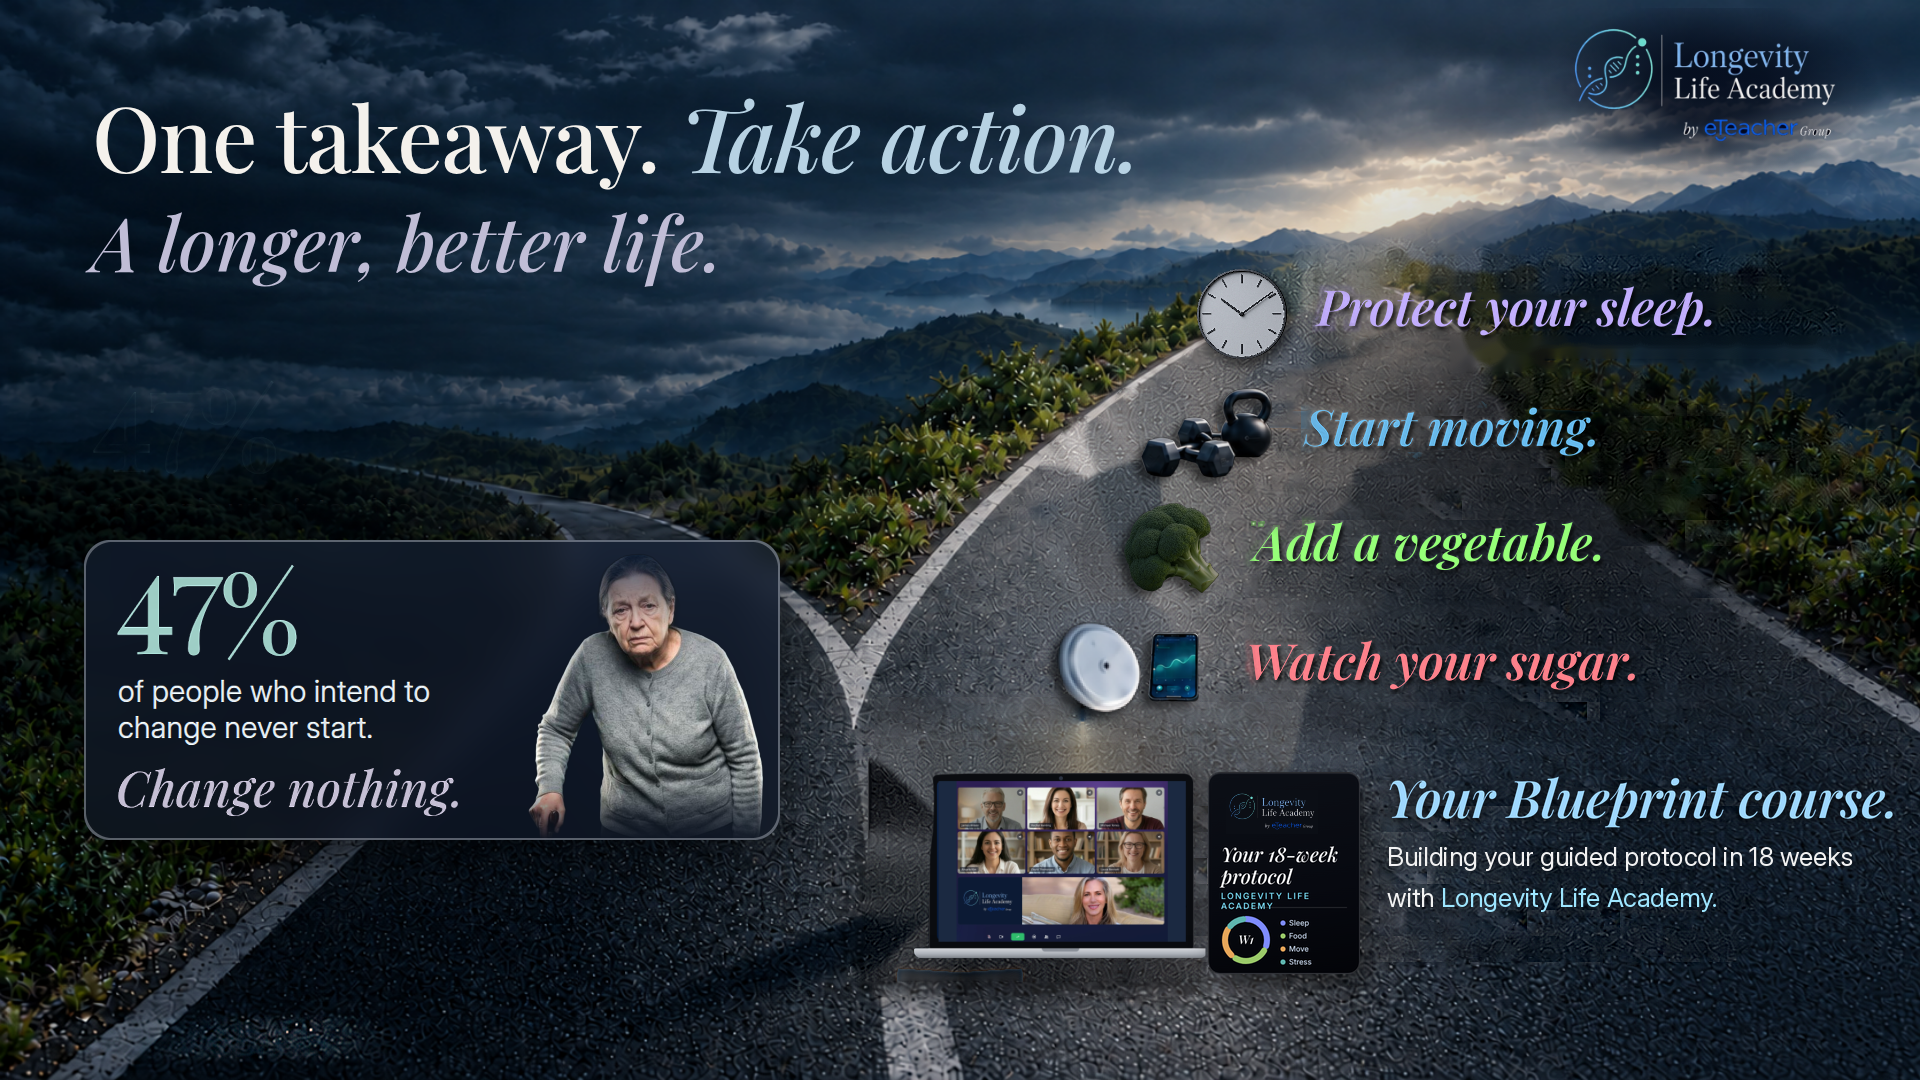
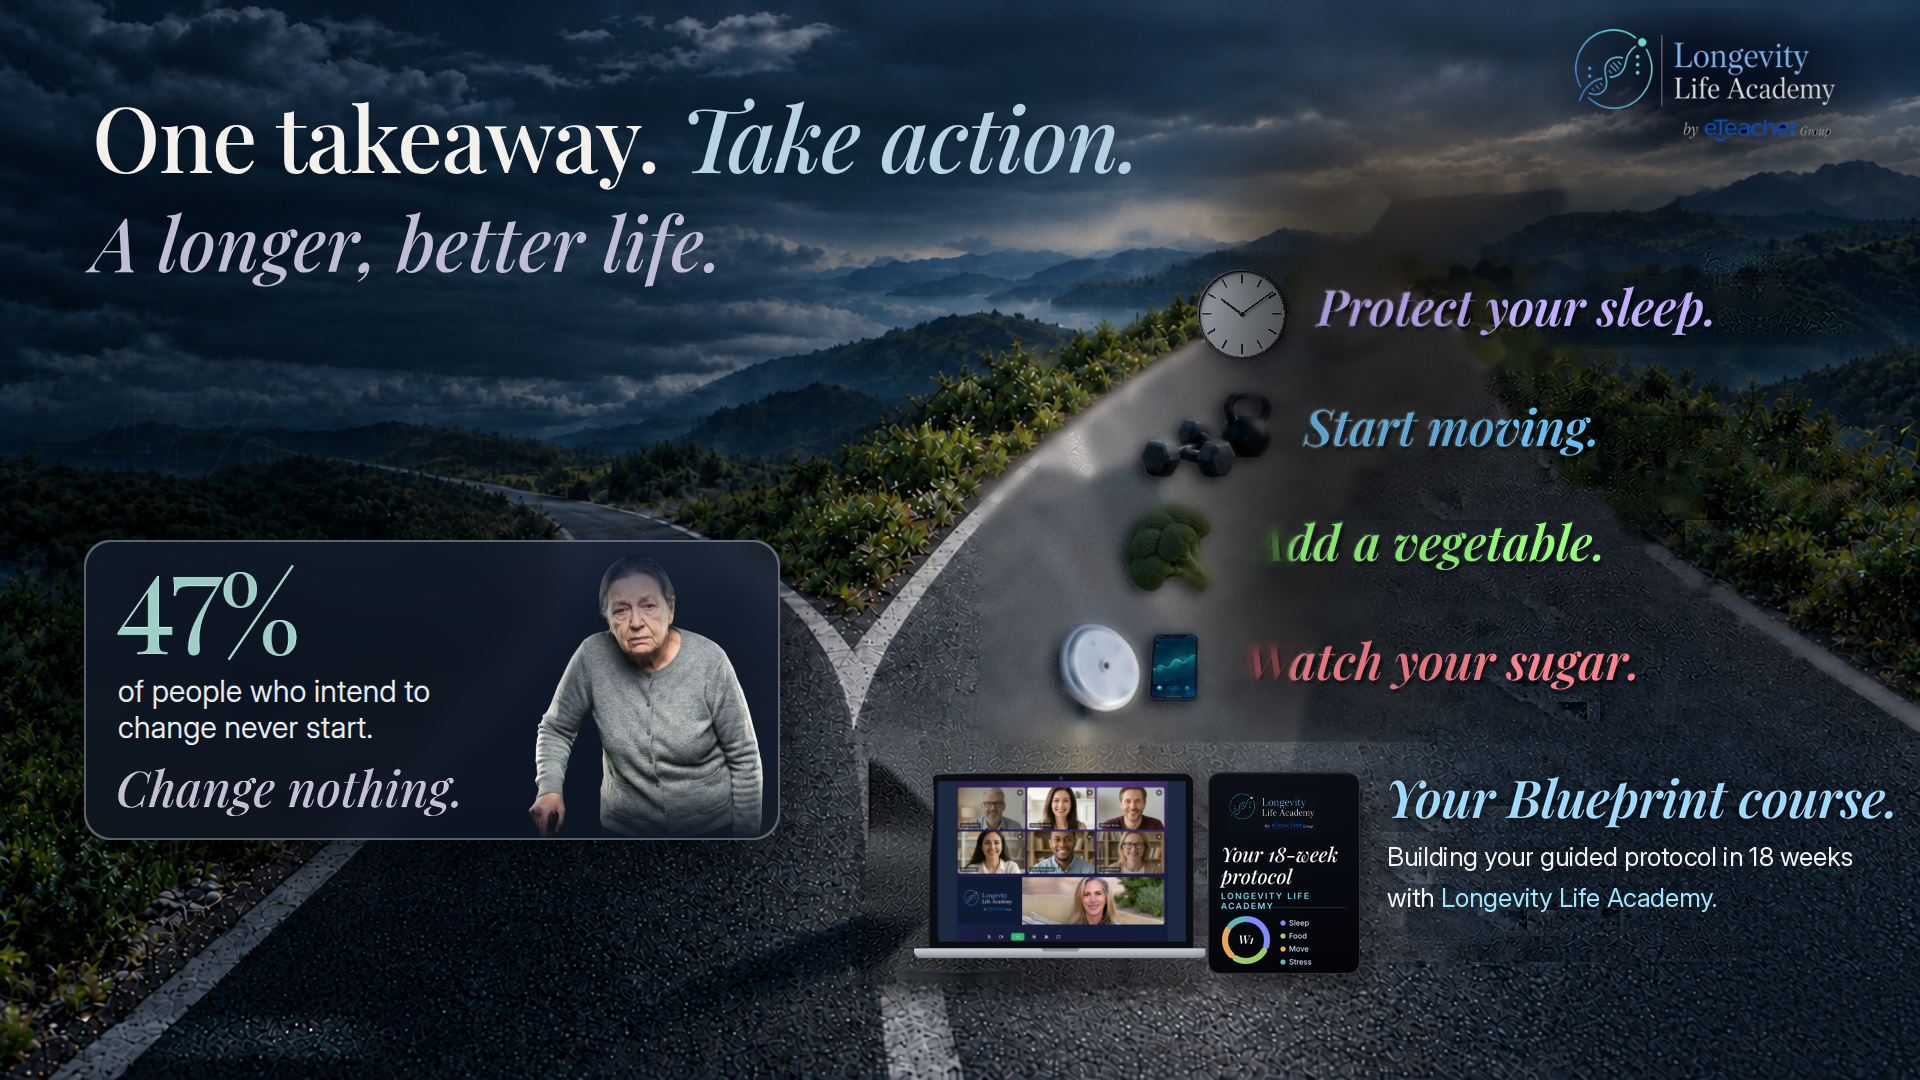
n25 fork: light ray removed (luminance-matched), patterned road smoothed around objects; z19/y32

diff --git a/slide-canvas/v46/corrections.js b/slide-canvas/v46/corrections.js
@@ -78,7 +78,7 @@ const sxRisks=newSlot('sx-risks','assets/n22-risks.jpg?v=v46y22','The four risks
 const sxBz=newSlot('sx-bz','assets/n23-bluezones.jpg?v=v46y22','The Blue Zones.','Added from the Round 13 page (slide 07, The Blue Zones). Placed before the menopause slide.','x2');
 const sxBr=newSlot('sx-brulee','assets/n24-brulee.jpg?v=v46y22','Crème brûlée and wrinkles.','Added from the Round 13 page (slide 13, Crème brûlée and wrinkles). Placed after the sugar slide, before Same age.','x3');
 const sxReligion=newSlot('sx-religion','assets/n26-religion.jpg?v=v46y22','Take the religion out of your diet.','New statement slide: only the sentence, large. Carries the religion part of the old plate-slide script; the pillars follow, then the plate.','x5');
-const sxFork=newSlot('sx-fork','assets/n25-fork.png?v=v46z18','One takeaway. Take action. (closing)','Closing slide: exactly the Julie deck slide 22 at commit f220cbd, unchanged (image file additional-take-action-20261026.png). It ends the deck.','x4');
+const sxFork=newSlot('sx-fork','assets/n25-fork.png?v=v46z19','One takeaway. Take action. (closing)','Closing slide: exactly the Julie deck slide 22 at commit f220cbd, unchanged (image file additional-take-action-20261026.png). It ends the deck.','x4');
 const sxSugar=newSlot('sx-sugar','assets/n28-sugar-limit.jpg?v=v46y22','Six teaspoons: the daily limit for added sugar.','New slide after the crème brûlée. Script it covers (quoted): “Here’s where the data points to a hard ceiling: keep your added sugar to under twenty-five grams a day. That’s roughly six teaspoons.” Then: “birthday cake is too precious of a tradition to scrap for watermelon cake. Sorry not gonna happen. But in it’s rightful place - once in a blue moon - it’s ok.” Then the CGM: “every student in the Longevity Life Academy will wear a CGM for two weeks.” Time 0:30, taken from the brûlée slide (now 0:30).','x6');
 const sxMwB=newSlot('sx-mw-julie','assets/n27-movement-week-julie.jpg?v=v46y22','Julie Gibson Clark’s Movement Week.','Movement week (option 2), Claude B, Protocol, slide 13. Marked V2. Julie to update. The full protocol follows after the stress slide.','x7');
 // The user's original slide references define the order, not inferred numbering.

diff --git a/slide-canvas/v46/index.html b/slide-canvas/v46/index.html
@@ -65,7 +65,7 @@ textarea:focus{outline:none;border-color:#006EFF;box-shadow:0 0 0 3px rgba(0,110
 <button id="send" class="btn p" onclick="sendAll()">Send my comments</button>
 <div id="lb" onclick="this.classList.remove('on')"><img id="lbimg" src="" alt=""><div class="x">Close</div></div>
 <div id="play"><img id="pimg" src="" alt=""><div class="x" onclick="stopPlay()">Close, Esc</div><div class="c" id="pc"></div></div>
-<script src="corrections.js?v=20261027-v46y31"></script>
+<script src="corrections.js?v=20261027-v46y32"></script>
 <script>
 const P=allSlots.map(s=>s.querySelector('img.main').getAttribute('src'));let k=0;
 const T=[...document.querySelectorAll('textarea')];

diff --git a/slide-canvas/fork-lab/index.html b/slide-canvas/fork-lab/index.html
@@ -1,4 +1,4 @@
 <!doctype html><html><head><meta charset="utf-8"><title>Fork lab – slide 26</title>
 <style>body{margin:0;background:#0b1220;color:#dfe7f3;font:15px/1.4 Inter,system-ui,sans-serif}h2{font-weight:500;margin:28px 24px 10px}img{display:block;width:calc(100% - 48px);max-width:1920px;margin:0 24px 24px;border-radius:6px}</style></head>
 <body><h2>Original</h2><img src="original-n25-fork.png?v=1" alt="Original">
-<h2>New</h2><img src="new-n25-fork.png?v=20" alt="New"></body></html>
+<h2>New</h2><img src="new-n25-fork.png?v=21" alt="New"></body></html>

diff --git a/slide-canvas/fork-lab/src/b12.py b/slide-canvas/fork-lab/src/b12.py
@@ -1,0 +1,25 @@
+import cv2,numpy as np
+from PIL import Image
+N=cv2.imread('new.png').astype(np.float32);O=cv2.imread('o.png').astype(np.float32);H,W=N.shape[:2]
+X0,Y0,X1,Y1=1180,180,1700,345
+k=lambda n:cv2.getStructuringElement(cv2.MORPH_ELLIPSE,(n,n))
+# orig objects mask
+m=np.zeros((H,W),np.uint8)
+ca=np.array(Image.open('c_clock.png'))[...,3];h,w=ca.shape;m[255:255+h,1250:1250+w]=np.maximum(m[255:255+h,1250:1250+w],(ca>20)*255)
+so=O.max(2)-O.min(2);t=((so>50)&(O.max(2)>120))|(O.min(2)>170);t[:, :1370]=False;t[:Y0]=0;t[Y1+20:]=0
+m=np.maximum(m,t.astype(np.uint8)*255);m=cv2.dilate(m,k(9))
+B=cv2.inpaint(np.clip(O,0,255).astype(np.uint8),m,4,cv2.INPAINT_NS).astype(np.float32)
+yy,xx=np.mgrid[0:H,0:W].astype(np.float32)
+g=np.exp(-(((xx-1560)/330)**2+((yy-470)/260)**2));g[:,:1260]*=np.clip((xx[:,:1260]-1180)/80,0,1);g[740:]=0
+g=cv2.GaussianBlur(g,(0,0),20);B=B*(1-0.42*g)[...,None]
+# keep new: headline + shadow, clock
+sn=N.max(2)-N.min(2);hl=((sn>60)&(N.max(2)>140));hl[:, :1300]=0
+K=cv2.dilate(hl.astype(np.uint8),k(17)).astype(np.float32)
+K=np.maximum(K,(np.hypot(xx-1246,yy-319)<54).astype(np.float32))
+K=cv2.GaussianBlur(K,(0,0),2.5)
+E=np.zeros((H,W),np.float32);E[Y0:Y1,X0:X1]=1;E=cv2.GaussianBlur(E,(0,0),6)*(1-K)
+R=N*(1-E[...,None])+B*E[...,None]
+o=np.clip(R,0,255).astype(np.uint8);cv2.imwrite('new.png',o)
+for n,(x,y) in {'clock':(1150,200),'dumb':(1000,330),'broc':(1000,470),'cgm':(980,590)}.items():
+  cv2.imwrite(f'zoom_{n}.png',cv2.resize(o[y:y+170,x:x+420],None,fx=2.4,fy=2.4,interpolation=cv2.INTER_NEAREST))
+cv2.imwrite('zoom_row1.png',o[170:360,1150:1900])

diff --git a/slide-canvas/fork-lab/src/b14.py b/slide-canvas/fork-lab/src/b14.py
@@ -1,0 +1,19 @@
+import cv2,numpy as np
+N=cv2.imread('new.png').astype(np.float32);H,W=N.shape[:2]
+k=lambda n:cv2.getStructuringElement(cv2.MORPH_ELLIPSE,(n,n))
+yy,xx=np.mgrid[0:H,0:W].astype(np.float32)
+Y=N.mean(2);sn=N.max(2)-N.min(2)
+obj=((sn>60)&(N.max(2)>140)).astype(np.uint8);obj[:,:1290]=0
+obj=np.maximum(obj,(np.hypot(xx-1242,yy-313)<50).astype(np.uint8))
+obj[340:742,1000:1300]=np.maximum(obj[340:742,1000:1300],((Y[340:742,1000:1300]<45)|(Y[340:742,1000:1300]>160)).astype(np.uint8))
+obj=cv2.dilate(obj,k(15))
+Yc=cv2.inpaint(np.clip(Y,0,255).astype(np.uint8),obj*255,9,cv2.INPAINT_TELEA).astype(np.float32)
+L=cv2.GaussianBlur(Yc,(0,0),35)
+T=np.percentile(Yc[600:740,1650:1900],50);print('T',T)
+Tm=np.minimum(L,T*1.05+ 0*L)
+reg=np.zeros((H,W),np.float32);reg[130:742,1220:1920]=1;reg=cv2.GaussianBlur(reg,(0,0),55);reg[742:]=0
+gain=np.where(L>0,Tm/np.maximum(L,1),1);gain=1-(1-gain)*reg
+tx=((sn>60)&(N.max(2)>140)).astype(np.uint8);tx[:,:1290]=0;O=cv2.GaussianBlur(cv2.dilate(tx,k(3)).astype(np.float32),(0,0),1)
+gain=gain*(1-O)+np.maximum(gain,0.9)*O  # keep headlines/objects near own level
+R=N*gain[...,None];o=np.clip(R,0,255).astype(np.uint8);cv2.imwrite('new.png',o)
+cv2.imwrite('zoom4_all.png',o[100:760,950:1920]);cv2.imwrite('zoom4_row1.png',cv2.resize(o[180:360,1180:1700],None,fx=2,fy=2))

diff --git a/slide-canvas/fork-lab/src/b13.py b/slide-canvas/fork-lab/src/b13.py
@@ -1,0 +1,12 @@
+import cv2,numpy as np
+N=cv2.imread('new.png').astype(np.float32);H,W=N.shape[:2]
+k=lambda n:cv2.getStructuringElement(cv2.MORPH_ELLIPSE,(n,n))
+yy,xx=np.mgrid[0:H,0:W].astype(np.float32)
+sn=N.max(2)-N.min(2);hl=((sn>60)&(N.max(2)>140));hl[:,:1300]=0
+K=cv2.dilate(hl.astype(np.uint8),k(13)).astype(np.float32);K=np.maximum(K,(np.hypot(xx-1242,yy-313)<49).astype(np.float32))
+road=((sn<28)&(N.mean(2)>60)&(N.mean(2)<165)).astype(np.float32);Z=np.zeros_like(road);Z[180:742,980:1920]=1
+M=cv2.GaussianBlur(cv2.morphologyEx(road,cv2.MORPH_CLOSE,k(9))*Z,(0,0),4)*(1-cv2.GaussianBlur(K,(0,0),2))
+S=cv2.GaussianBlur(N,(0,0),5);rng=np.random.default_rng(1);S+=cv2.GaussianBlur(rng.normal(0,4,(H,W)).astype(np.float32),(0,0),0.6)[...,None]
+R=N*(1-M[...,None])+S*M[...,None];o=np.clip(R,0,255).astype(np.uint8);cv2.imwrite('new.png',o)
+cv2.imwrite('zoom2_clock.png',cv2.resize(o[200:370,1150:1570],None,fx=2.4,fy=2.4))
+for n,(x,y) in {'dumb':(1000,330),'broc':(1000,470),'cgm':(980,590)}.items():cv2.imwrite(f'zoom2_{n}.png',cv2.resize(o[y:y+170,x:x+420],None,fx=2.4,fy=2.4))
